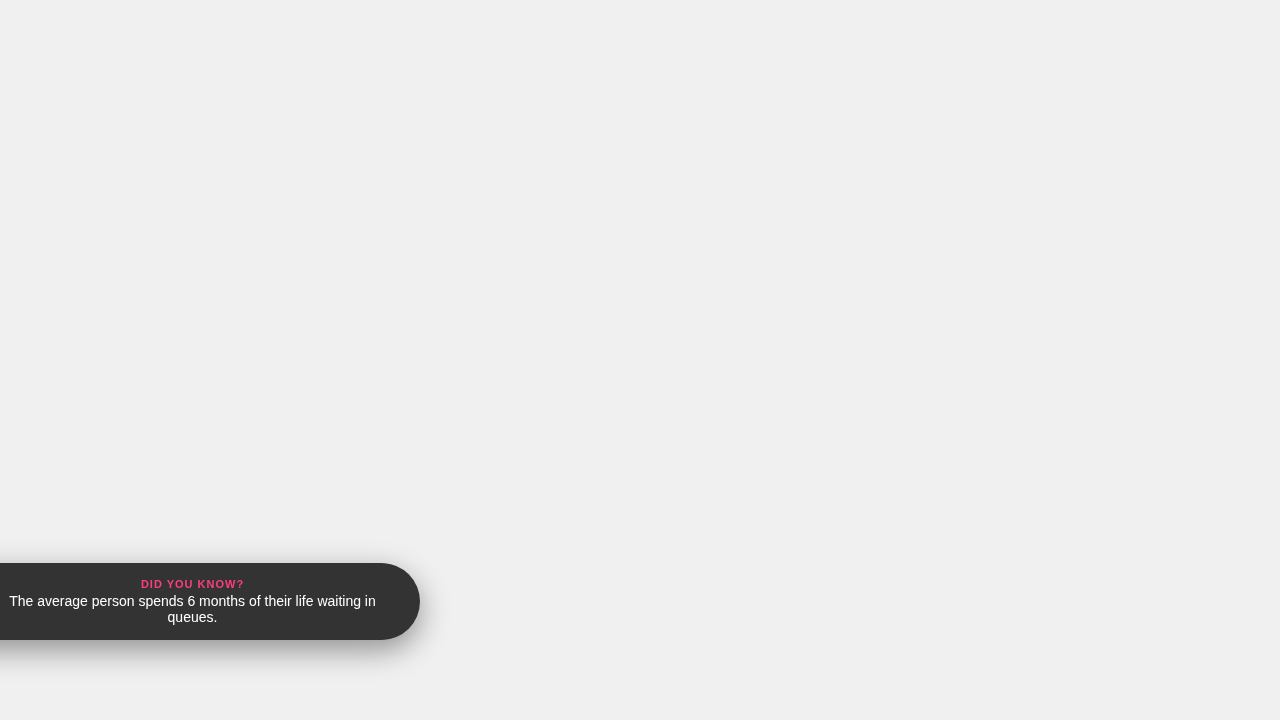
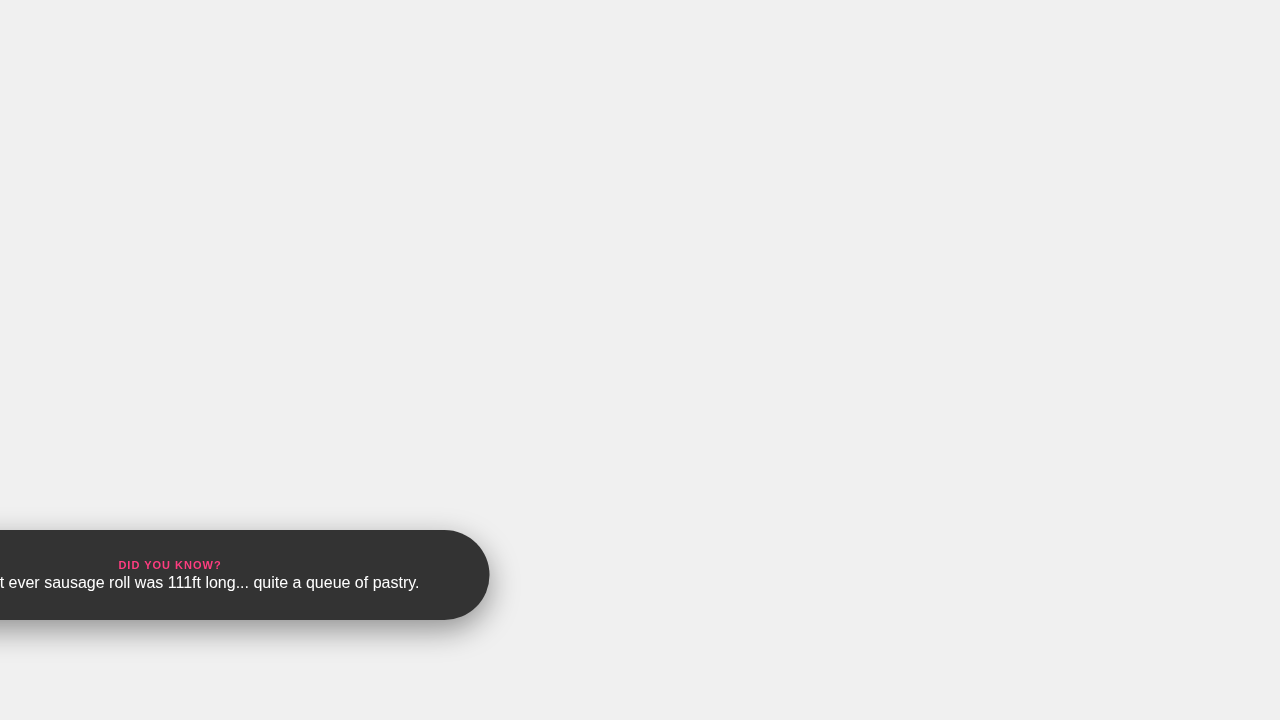
Fix Loading Facts centering and layout
- Use absolute positioning for the icon to prevent text shifting
- Apply balanced symmetrical padding to the toast container
- Ensure text content is centered within the pill
- Verified with regression tests

Changed region(s): [[0.0, 0.7333, 0.4062, 0.9167]]

diff --git a/content.css b/content.css
@@ -94,44 +94,49 @@ body.reminder-theme-black #confirmation-popup {
 /* --- Loading Facts Toast Styles --- */
 /* The Fact "Pill" */
 .loading-fact-toast {
-    /* LAYOUT: Row = Icon Left | Text Right */
-    display: flex;
-    flex-direction: row;
-    align-items: center;
-    justify-content: center;
-    gap: 15px;
-
-    /* Positioning (Keep existing) */
+    /* Positioning (Fixed Bottom + Center X) */
     position: fixed;
-    bottom: 80px;
+    bottom: 100px;
     transform: translateX(-50%);
-
-    /* Visuals (Keep existing) */
-    background-color: var(--toast-bg-color, #333);
-    color: white;
-    padding: 15px 25px;
-    border-radius: 50px;
-    box-shadow: 0 10px 30px rgba(0,0,0,0.4);
-    font-family: 'Montserrat', sans-serif;
-    font-size: 14px;
-    width: max-content;
-    max-width: 450px;
     z-index: 2147483647 !important;
     pointer-events: none;
+
+    /* Layout & Sizing */
+    display: flex;
+    align-items: center;     /* Vertically center text */
+    justify-content: center; /* Horizontally center text */
+    width: max-content;
+    max-width: 500px;
+    min-height: 60px; /* Ensure height for icon */
+
+    /* VISUAL CENTERING MAGIC: Balanced Padding */
+    /* Left padding holds the icon. Right padding balances it. */
+    padding: 15px 70px 15px 70px;
+
+    /* Styling */
+    background-color: var(--toast-bg-color, #333);
+    color: white;
+    border-radius: 50px;
+    box-shadow: 0 10px 30px rgba(0,0,0,0.4);
 }
 
 .loading-fact-icon {
+    /* Absolute positioning to prevent pushing text off-center */
+    position: absolute;
+    left: 25px; /* Sits comfortably in the left padding */
+    top: 50%;
+    transform: translateY(-50%);
+
     font-size: 24px;
-    /* Remove margin-bottom if it was there */
-    margin-bottom: 0;
+    line-height: 1;
 }
 
 .loading-fact-content {
-    /* TEXT STACK: Column = Title Top | Body Bottom */
+    /* Text Stack */
     display: flex;
     flex-direction: column;
-    align-items: center; /* Centers text horizontally within the stack */
-    text-align: center;  /* Ensures multi-line text is centered */
+    align-items: center;
+    text-align: center;
 }
 
 .loading-fact-content strong {
